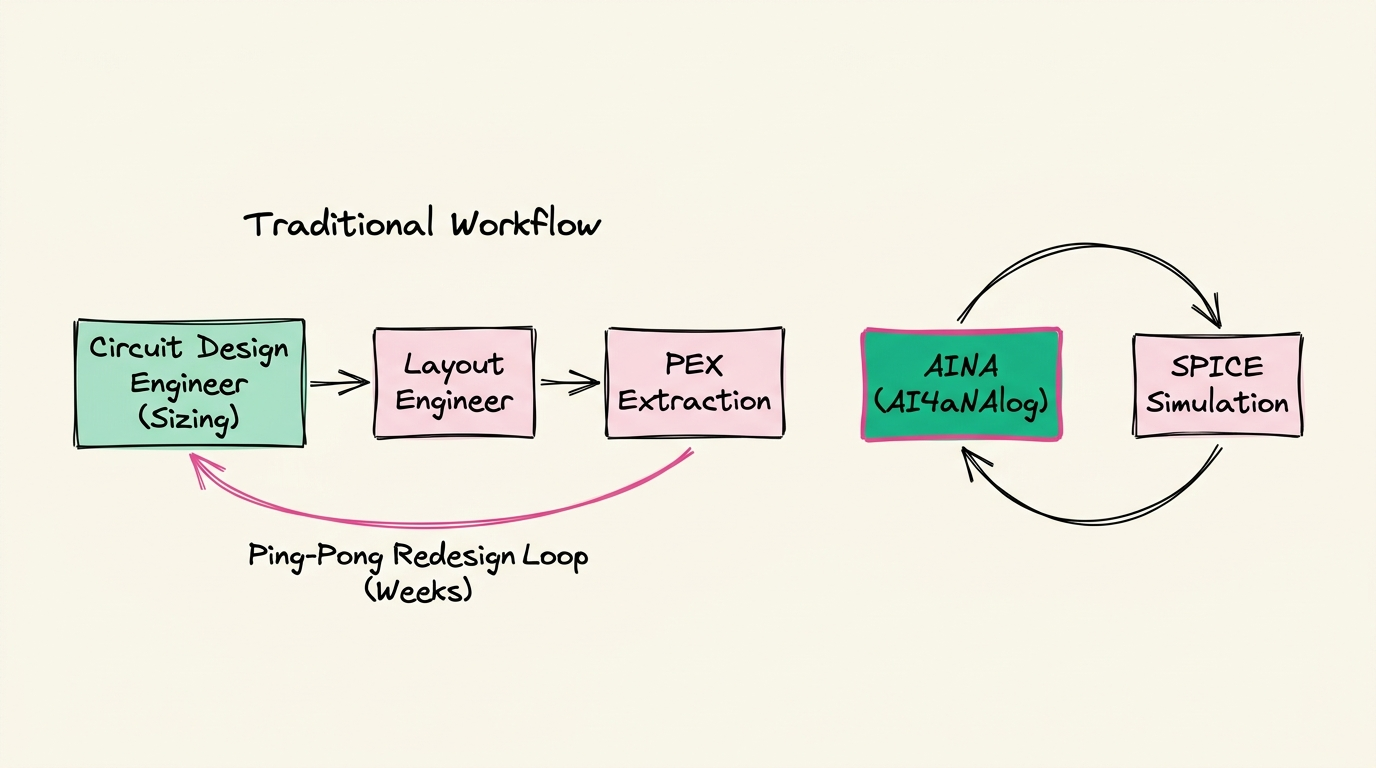
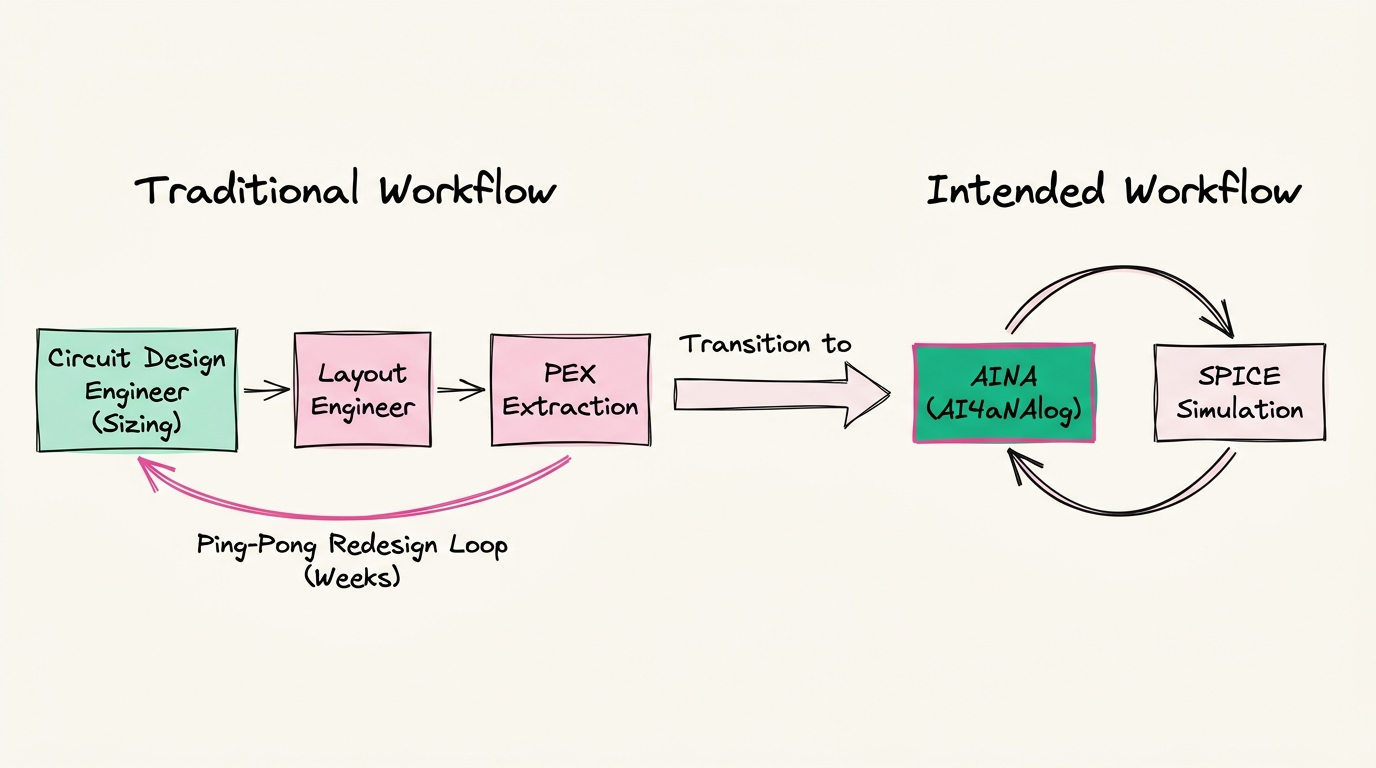
feat(aina): update diagram with intended workflow heading & transition, add note callout support

Changed region(s): [[0.0, 0.3125, 0.9688, 0.7812], [0.0938, 0.2188, 0.4375, 0.3125], [0.6562, 0.2188, 0.9375, 0.2812]]

diff --git a/src/lib/posts.js b/src/lib/posts.js
@@ -102,6 +102,14 @@ function remarkCustomDirectives() {
           };
         }
 
+        if (node.name === 'note') {
+          data.hName = 'div';
+          data.hProperties = {
+            className: ['border-l-4', 'border-emerald-500', 'bg-emerald-50', 'dark:bg-emerald-900/20', 'rounded-lg', 'p-4', 'my-4', 'text-sm'],
+            ...attributes,
+          };
+        }
+
         if (node.name === 'footer') {
           data.hName = 'footer';
           data.hProperties = {
@@ -145,6 +153,9 @@ export async function getPostData(id) {
   const fileContents = fs.readFileSync(fullPath, 'utf8');
   const matterResult = matter(fileContents);
 
+  // Normalize directive syntax e.g. :::{note} -> :::note
+  const normalizedContent = matterResult.content.replace(/^:::\{([a-zA-Z0-9_-]+)\}/gm, ':::$1');
+
   // Use Unified/Remark/Rehype to process Markdown -> HTML
   // This pipeline supports Math ($$ x $$) and Code Highlighting
   const processedContent = await unified()
@@ -156,7 +167,7 @@ export async function getPostData(id) {
     .use(rehypeKatex) // Render Math
     .use(rehypePrism, { showLineNumbers: true }) // Render Code
     .use(rehypeStringify, { allowDangerousHtml: true })
-    .process(matterResult.content);
+    .process(normalizedContent);
 
   const contentHtml = processedContent.toString();
 

diff --git a/content/posts/aina_part_0.md b/content/posts/aina_part_0.md
@@ -2,10 +2,12 @@
 title: 'AINA (Part 0): Why are we still sizing analog circuits by hand?'
 date: '2026-10-28'
 readTime: '15 min'
-type: 'analog design, eda, agents'
-tags: ['agents', 'analog-ic', 'eda', 'reinforcement-learning']
+tags: ['analog design', 'eda', 'agents', 'reinforcement-learning']
 excerpt: 'Why digital scaled while analog remained an artisan craft, the high-friction post-layout bottleneck, and why LLM policies trained with RLFT can revolutionize analog circuit sizing.'
 ---
+:::{note}
+This blog series is a collaborative one (pun intended) between me and my LLMs. Rest assured, everything is human verified and I believe where LLM does give better explanation with brevity, have humility to accept it. Also, since this is also a way for me to learn, I have tried to keep it simple enough for a beginner to understand, but also cover enough depth to be interesting to an expert.
+:::
 
 AI has advanced to a great extent presently. We have seen the recent capabilities in the agentic space, where a swarm of OpenAI agents formed their own civilizations to escape the sandbox and hack nodes on HuggingFace.
 
@@ -48,4 +50,4 @@ Even human analog engineers rarely invent entirely new circuit structures from s
 
 This is the motivation behind my agent: **aina** (**AINA: AI4aNAlog**).
 
-Initially, I will focus on agent architecture and the choices along with the conclusions. 
+Initially, I will focus on agent architecture and the choices along with the conclusions.
